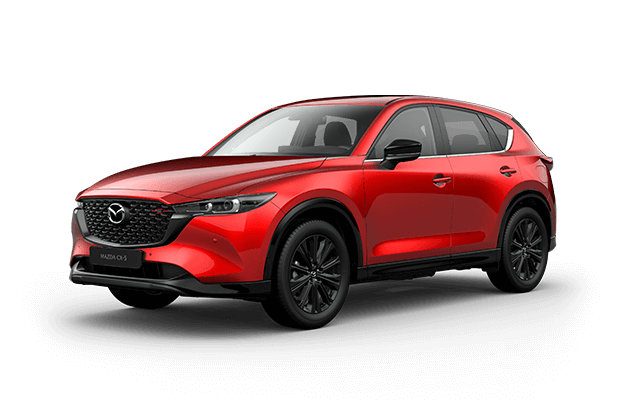
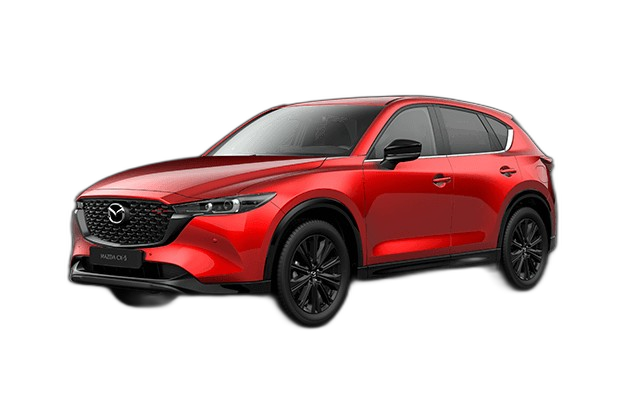
feat: fondos removidos de camionetas con IA (rembg u2net)
PNGs con fondo transparente — camionetas flotan sobre el hero sin recuadro

diff --git a/index.html b/index.html
@@ -8,7 +8,7 @@
   <link rel="preconnect" href="https://fonts.googleapis.com" />
   <link rel="preconnect" href="https://fonts.gstatic.com" crossorigin />
   <link href="https://fonts.googleapis.com/css2?family=Inter:wght@400;500;600;700;800;900&display=swap" rel="stylesheet" />
-  <link rel="stylesheet" href="css/style.css?v=22" />
+  <link rel="stylesheet" href="css/style.css?v=23" />
   <link rel="icon" type="image/png" href="assets/images/favicon.png" />
 </head>
 <body class="subpage isperformance-page">
@@ -46,12 +46,12 @@
     <!-- Collage de camionetas — reemplaza las imágenes en assets/images/hero/ -->
     <div class="hero-collage" aria-hidden="true">
       <div class="hero-col-left">
-        <img src="assets/images/hero/truck-1.jpg" alt="" onerror="this.style.opacity='0'" />
-        <img src="assets/images/hero/truck-2.jpg" alt="" onerror="this.style.opacity='0'" />
+        <img src="assets/images/hero/truck-1.png" alt="" onerror="this.style.opacity='0'" />
+        <img src="assets/images/hero/truck-2.png" alt="" onerror="this.style.opacity='0'" />
       </div>
       <div class="hero-col-right">
-        <img src="assets/images/hero/truck-3.jpg" alt="" onerror="this.style.opacity='0'" />
-        <img src="assets/images/hero/truck-4.jpg" alt="" onerror="this.style.opacity='0'" />
+        <img src="assets/images/hero/truck-3.png" alt="" onerror="this.style.opacity='0'" />
+        <img src="assets/images/hero/truck-4.png" alt="" onerror="this.style.opacity='0'" />
       </div>
     </div>
 
@@ -510,9 +510,9 @@
     </div>
   </footer>
 
-  <script src="js/main.js?v=22"></script>
-  <script src="js/carrito.js?v=22"></script>
-  <script src="js/productos.js?v=22"></script>
-  <script src="js/filtros.js?v=22"></script>
+  <script src="js/main.js?v=23"></script>
+  <script src="js/carrito.js?v=23"></script>
+  <script src="js/productos.js?v=23"></script>
+  <script src="js/filtros.js?v=23"></script>
 </body>
 </html>

diff --git a/producto.html b/producto.html
@@ -8,7 +8,7 @@
   <link rel="preconnect" href="https://fonts.googleapis.com" />
   <link rel="preconnect" href="https://fonts.gstatic.com" crossorigin />
   <link href="https://fonts.googleapis.com/css2?family=Inter:wght@400;500;600;700;800;900&display=swap" rel="stylesheet" />
-  <link rel="stylesheet" href="css/style.css?v=22" />
+  <link rel="stylesheet" href="css/style.css?v=23" />
   <link rel="icon" type="image/png" href="assets/images/favicon.png" />
 </head>
 <body class="subpage isperformance-page">
@@ -70,9 +70,9 @@
     </div>
   </footer>
 
-  <script src="js/main.js?v=22"></script>
-  <script src="js/carrito.js?v=22"></script>
-  <script src="js/productos.js?v=22"></script>
-  <script src="js/detalle.js?v=22"></script>
+  <script src="js/main.js?v=23"></script>
+  <script src="js/carrito.js?v=23"></script>
+  <script src="js/productos.js?v=23"></script>
+  <script src="js/detalle.js?v=23"></script>
 </body>
 </html>

diff --git a/css/style.css b/css/style.css
@@ -1155,10 +1155,9 @@ ul { list-style: none; }
 .hero-col-right img {
   width: 380px;
   height: 220px;
-  object-fit: cover;
-  object-position: center;
-  border-radius: 14px;
-  background: var(--dark-800);
+  object-fit: contain;
+  object-position: center bottom;
+  border-radius: 0;
   opacity: 0;
   display: block;
   animation: heroTruckFade 1s cubic-bezier(0.22, 1, 0.36, 1) forwards;